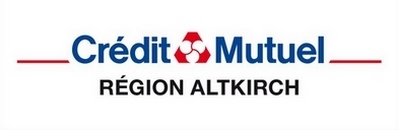
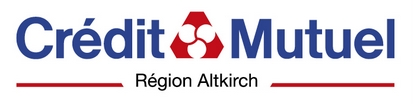
Maj partenaires, suppr bandeau resultats

diff --git a/_includes/beforefooter.html b/_includes/beforefooter.html
@@ -98,37 +98,42 @@
     	<h2><span style="background-color:white">🚴&nbsp;Nos partenaires&nbsp;🚴</span></h2>
 
 
-		<div class="rTable">
+		<div class="rTable" style="margin: auto; display: flex; justify-content: center; align-items: center;">
+
 		<div class="rTableBody">
 			<div class="rTableRow">
-				<div class="rTableCell"><a href="https://www.cc-sundgau.fr//"><img src="{{ site.baseurl }}assets/images/partenaires/CCS.png" alt="Communauté de Communes Sundgau" /></a></div>
+				
 				<div class="rTableCell"><a href="http://www.mairie-altkirch.fr/"><img src="{{ site.baseurl }}assets/images/partenaires/Altkirch.png" alt="Ville d'Altkirch" /></a></div>
-				<div class="rTableCell"><a href="https://www.daiichi-sankyo.fr/"><img src="{{ site.baseurl }}assets/images/partenaires/DaiichiSankyo.jpg" alt="Daiichi Sankyo" /></a></div>
-				<div class="rTableCell"><a href="https://www.creditmutuel.fr"><img src="{{ site.baseurl }}assets/images/partenaires/CreditMutuel.jpg" alt="Crédit Mutuel" /></a></div>
-				<div class="rTableCell"><img src="{{ site.baseurl }}assets/images/partenaires/StartElectricite.png" alt="Start Electricité" /></div>
-				<div class="rTableCell"><a href="https://www.setal.eu/"><img src="{{ site.baseurl }}assets/images/partenaires/Setal.jpg" alt="Setal" /></a></div>
+				<div class="rTableCell"><a href="https://www.sundgau2roues.fr/"><img src="{{ site.baseurl }}assets/images/partenaires/Sundgau2Roues.png" alt="Sundgau 2 Roues" /></a></div>
+				<div class="rTableCell"><a href="https://www.setal.eu/"><img src="{{ site.baseurl }}assets/images/partenaires/Setal.jpg" alt="Setal"/></a></div>
+                <div class="rTableCell"><a href="https://www.facebook.com/bahlingertagsdorf/?locale=fr_FR"><img src="{{ site.baseurl }}assets/images/partenaires/MaisonBahlinger.png" alt="Maison Bahlinger" /></a></div>
+                
 			</div>
 		</div>
 		</div>
 		<div class="rTable">
 		<div class="rTableBody">
 			<div class="rTableRow">
-				<div class="rTableCell"><a href="http://www.fun2sport.fr/"><img src="{{ site.baseurl }}assets/images/partenaires/Fun2Sport.jpg" alt="Fun2Sport" /></a></div>
-				<div class="rTableCell"><img src="{{ site.baseurl }}assets/images/partenaires/LBprotheses.jpg" alt="LBprotheses" /></div>
+                
+               <div class="rTableCell"><a href="https://www.cc-sundgau.fr//"><img src="{{ site.baseurl }}assets/images/partenaires/CCS.png" alt="Communauté de Communes Sundgau" /></a></div>
+                <div class="rTableCell"><a href="https://www.creditmutuel.fr"><img src="{{ site.baseurl }}assets/images/partenaires/CreditMutuel.jpg" alt="Crédit Mutuel" /></a></div>
 				<div class="rTableCell"><a href="http://www.express-sundgoviens.info/"><img src="{{ site.baseurl }}assets/images/partenaires/ExpressSundgoviens.jpg" alt="Express Sundgoviens" /></a></div>
-				<div class="rTableCell"><a href="http://www.danielfricker-fermetures.fr/"><img src="{{ site.baseurl }}assets/images/partenaires/IDFermetures.jpg" alt="Daniel Fricker Fermetures" /></a></div>
+                 <div class="rTableCell"><a href="https://www.daiichi-sankyo.fr/"><img src="/assets/images/partenaires/DaiichiSankyo.jpg" alt="Daiichi Sankyo"></a></div>
+                
+				
 			</div>
 		</div>
 		</div>
 		<div class="rTable">
 		<div class="rTableBody">
-			<div class="rTableRow">			
-				<div class="rTableCell"><a href="https://www.haut-rhin.fr/"><img src="{{ site.baseurl }}assets/images/partenaires/Departement68.png" alt="Haut Rhin" /></a></div>
-				<div class="rTableCell"><a href="https://www.confort2000.fr/"><img src="{{ site.baseurl }}assets/images/partenaires/Confort2000.png" alt="CONFORT 2000" /></a></div>
-				<div class="rTableCell"><a href="https://www.lacavedelill.fr/"><img src="{{ site.baseurl }}assets/images/partenaires/CaveDeLIll.jpg" alt="La Cave de l'Ill" /></a></div>
-				<div class="rTableCell"><a href="https://www.facebook.com/Peduzzi-Taille-de-Pierre-373836173170649"><img src="{{ site.baseurl }}assets/images/partenaires/Peduzzi.jpg" alt="Peduzzi Taille de pierre" /></a></div>
+			<div class="rTableRow">	
+            <div class="rTableCell"><a href="https://www.haut-rhin.fr/"><img src="{{ site.baseurl }}assets/images/partenaires/Departement68.png" alt="Haut Rhin" /></a></div>		
 				<div class="rTableCell"><a href="https://www.m-habitat.fr/annuaire/haut-rhin/acei-a-waldighoffen-electricien-28877_I"><img src="{{ site.baseurl }}assets/images/partenaires/AceiElectricite.jpg" alt="ACEI Electricité" /></a></div>
-				<div class="rTableCell"><img src="{{ site.baseurl }}assets/images/partenaires/MarcBoetsch.jpg" alt="Marc Boetsch" /></div>
+                <div class="rTableCell"><a href="https://www.bigstores-fermetures.com"><img src="{{ site.baseurl }}assets/images/partenaires/BigStores_Fermetures.png" alt="BigStores Fermetures" /></a></div>
+                <div class="rTableCell"><a href="https://ams.alsace/"><img src="{{ site.baseurl }}assets/images/partenaires/AMS.png" alt="AMS Agence Multiservices"/></a></div>
+				<div class="rTableCell"><img src="{{ site.baseurl }}assets/images/partenaires/TACTUM.png" alt="TACTUM" /></div>
+				<div class="rTableCell"><a href="https://www.emporia-immobilier.com"><img src="{{ site.baseurl }}assets/images/partenaires/Emporia_immobilier.png" alt="Emporia Immobilier - Illfurth" /></a></div>
+                <div class="rTableCell"><a href="https://www.selmoni-sh.fr/fr/accueil/"><img src="{{ site.baseurl }}assets/images/partenaires/Selmoni_SH.png" alt="Selmoni Smart Handlin" /></a></div>
 			</div>
 		</div>
 		</div>
@@ -138,6 +143,7 @@
 <!-- FIN PRE FOOTER FACEBOOK -->
 
 <!-- PODIUMS -->
+<!--
 <div id="resultats" class="beforefooter">
     <div class="main-content">
     	<h2><span>🚴 Résultats 🚴</span></h2>
@@ -184,5 +190,6 @@
         </div>
     </div>
 </div>
+-->
 <!-- FIN PODIUMS -->
 

diff --git a/_includes/sidebar.html b/_includes/sidebar.html
@@ -4,6 +4,7 @@
             <h5><span>📰 Revue de presse 📰</span></h5>
             
             <ul class="revuedepresse">
+                <li>31/10/2024 : <a href="https://www.lalsace.fr/culture-loisirs/2024/10/31/un-cyclo-cross-qui-a-tenu-toutes-ses-promesses">Un cyclo-cross qui a tenu toutes ses promesses</a> (L'Alsace)</li>
                 <li>22/07/2024: <a href="https://www.lalsace.fr/culture-loisirs/2024/07/22/le-vcsa-brille-au-tour-du-territoire-de-belfort">Le VCSA brille au Tour du Territoire de Belfort</a> (L'Alsace)</li>
                 <li>16/07/2024: <a href="https://www.ami-hebdo.com/lecole-de-cyclisme-du-vcsa-en-stage-en-toscane/">L’école de cyclisme du VCSA en stage en Toscane</a> (L'Ami Hebdo)</li>
                 <li>07/05/2024: <a href="https://www.lalsace.fr/societe/2024/05/07/une-page-de-l-avenir-du-cyclisme-francais-s-ecrit-a-altkirch">Une page de l'avenir du cyclisme français s'écrit à Altkirch</a> (L'Alsace)</li>

diff --git a/partenaires.md b/partenaires.md
@@ -6,72 +6,69 @@ title: Nos partenaires
 
 Le VCS Altkirch ne serait rien sans ses partenaires et les remercie particulièrement pour leur soutien. Notamment :
 
+#### • Sundgau 2 Roues
+
+Magasin de cycle dans le Sundgau depuis près de 40 ans et désormais basé à Dannemarie (Rue de Bâle), Sundgau 2 Roues propose des produits de toutes les gammes (vélos musculaires, vélos à assistance électrique) et des prestations d'entretiens et de réparation !\
+=> Plus d'infos sur le [site de S2R](https://www.sundgau2roues.fr/) ou sur la [page Facebook](https://www.facebook.com/Sundgau2Roues).
+
+#### • Setal : Menuiserie Aluminium
+
+La société Setal (Société Européenne de Transformation Aluminium, SARL) créée en 1997 par M. Vaxelaire est située à Montbéliard dans le département du Doubs (25) et intervient pour la transformation de produits aluminium pour les industries et les collectivités essentiellement.\  
+=> Plus d'infos sur le [site de Setal](http://www.setal.eu).
+
+#### • Le Crédit Mutuel - Région Altkirch
+
+Banque coopérative qui propose également des assurances, forfaits téléphoniques, etc.\  
+=> Plus d'infos sur le [site du Crédit Mutuel](http://www.credit-mutuel.fr).
+
+#### • Express Sundgoviens - Autocars Gast
+
+Tansporteur touristique en autocars basé à Ballersdorf (sorties scolaires, famliales, de groupe, ...)\  
+=> Plus d'infos sur le [site d'Express Sundgoviens](http://www.express-sundgoviens.info) ou sur la [page Facebook](https://www.facebook.com/Express-Sundgoviens-486717881526026/).
+
+#### • Maison Bahlinger
+
+Boulangerie pâtisserie artisanale à Tagsdorf (4c Rue de Belfort) !\
+=> Retrouvez la boulangerie-pâtisserie sur sa [page Facebook](https://www.facebook.com/bahlingertagsdorf/).
+
 #### • ACEI Électricité
 
 Antonio Caccese électricité industrielle - Travaux d'installation électrique, de dépannage et de mise aux normes électriques entre autres.  
 Basé à Waldighoffen.
-
-#### • La Cave de L'Ill
-
-Caviste à Brunstatt - Marchand et magasin de vin pour l'achat de vos vins et spiritueux - Boutique spécialiste en vins - Magasin de vente en ligne de vins biologiques, vins natures, vins biodynamie/biodynamiques, vins sans sulfites, vins sans colle et sans filtration.  
-=> Plus d'infos sur le [site de la Cave de l'Ill](https://www.lacavedelill.fr/) ou sur la [page Facebook](https://www.facebook.com/lacavedelillcom/).
-
-#### • Confort 2000
-
-Votre spécialiste en électroménager ! À Altkirch et Bartenheim.  
-=> Plus d'infos sur le [site de Confort 2000](https://www.confort2000.fr/) ou sur la [page Facebook](https://www.facebook.com/Confort2000/).
-
-#### • Le Crédit Mutuel
-
-Banque coopérative, propose également des assurances, forfaits téléphoniques, etc.  
-=> Plus d'infos sur le [site du Crédit Mutuel](http://www.credit-mutuel.fr).
 
 #### • Daiichi Sankyo
 
 Entreprise pharmaceutique.  
 => Plus d'infos sur le [site de Daiichi Sankyo](http://www.daiichi-sankyo.fr).
 
-#### • Express Sundgoviens - Autocars Gast
+#### • AMS
 
-Tansporteur touristique en autocars basé à Ballersdorf (sorties scolaires, famliales, de groupe, ...)  
-=> Plus d'infos sur le [site d'Express Sundgoviens](http://www.express-sundgoviens.info) ou sur la [page Facebook](https://www.facebook.com/Express-Sundgoviens-486717881526026/).
+AMS est une entreprise spécialisée dans le nettoyage professionnel en Alsace : espaces industriels, bureaux, copropriétés, cabinets médicaux et autres. AMS propose également des services spécifiques aux particuliers ainsi qu'un service d’entretien d’espaces verts !\
+=> Plus d'infos sur le [site d'AMS](https://ams.alsace/).
 
-#### • Fun2Sport
+#### • Bigstores et Fermetures, entreprise de stores et de fermetures
 
-Vos Vacances & Stages Vélo sous toutes les formes, souvent avec d'anciens Coureurs Pro et toujours avec du plaisir, de la convivialité et du Fun !  
-=> Plus d'infos sur le [site de Fun2Sport](http://www.fun2sport.fr/) ou sur la [page Facebook](https://www.facebook.com/alain.lamy.fun2sport.fr/).
+Bigstores et Fermetures répond à tous les souhaits sundgauviens en termes de menuiseries d’intérieur, d’extérieur et de stores (fenêtres, portes, portails, clôtures et stores).\
+=> Plus d'infos sur le [site de Bigstores et Fermetures](https://www.bigstores-fermetures.com/) ou directement au showroom à Koestlach !
 
-#### • Daniel Fricker Fermetures Alu & PVC
+#### • Selmoni Smart Handling
 
-Basée à Ilzach, l'entreprise Daniel Fricker Fermetures Alu & PVC (anciennement ID Fermetures) vous propose la fourniture et la pose de :  
-Fenêtres - Portes d'entrée / de service / blindées - Volets roulants / volets battants  
-Portes de garage - Stores (bannes, pergolas, etc.) - Portails / garde-corps / clôtures  
-=> Plus d'infos sur le [site de Daniel Fricker Fermetures](http://www.danielfricker-fermetures.fr/) ou sur la [page Facebook](https://www.facebook.com/DanielFrickerFermetures).
+Basé à Altkirch, Selmoni Smart Handling dispose avec son partenaire Selmoni SA, d‘une longue et solide expérience dans l‘automatisation de machines et de lignes de production.\
+=> Plus d'infos sur le [site de Selmoni Smart Handling](https://www.selmoni-sh.fr/fr/accueil/).
 
-#### • LB Prothèses Dentaires
+#### • Tactum - l'aperception du vin
 
-Prothésistes dentaires à Altkirch depuis 2002.  
+Vente de vins à Altkirch 
 
-#### • Marc Boetsch
+#### • Emporia Immobilier
 
-Entreprise de menuiseries métalliques à Altkirch.
-
-#### • Peduzzi Taille de pierre
-
-Tailleur de pierre à Balschwiller. Aménagements extérieurs et intérieurs, escaliers et dallages, plans de travail de cuisine, restauration du patrimoine, aménagements funéraires et cinéraires.
-=> Plus d'infos sur la [page Facebook de Peduzzi Taille de pierre](https://www.facebook.com/Peduzzi-Taille-de-Pierre-373836173170649).
-
-#### • Setal : Menuiserie Aluminium
-
-La société Setal (Société Européenne de Transformation Aluminium, SARL) créée en 1997, par M. Vaxelaire est située à Montbéliard dans le département du Doubs (25) et intervient pour la transformation de produits aluminium pour les industries et les collectivités essentiellement.  
-=> Plus d'infos sur le [site de Setal](http://www.setal.eu).
-
-#### • Start Electricité
-
-Electricien pour pros et particuliers, basé à Lutterbach.  
-=> Plus d'infos sur le [site de Start Electricité](https://www.start-electricite.fr/).
+Agence immobilière basée à Illfurth (vente, location, ...).\
+=> Retrouvez toutes les offres sur le [site d'Emporia Immobilier](https://www.emporia-immobilier.com/)
 
 Merci également à la [ville d'Altkirch](http://www.mairie-altkirch.fr), au [Conseil départemental du Haut-Rhin](https://www.haut-rhin.fr/) et à [la Communauté de Communes Sundgau](https://www.cc-sundgau.fr/) pour leur soutien !
 
 Votre entreprise a envie de soutenir le VCS Altkirch ? N'hésitez pas à nous écrire à [vcsaltkirch@gmail.com](mailto:vcsaltkirch@gmail.com) !
+
+
+
 
